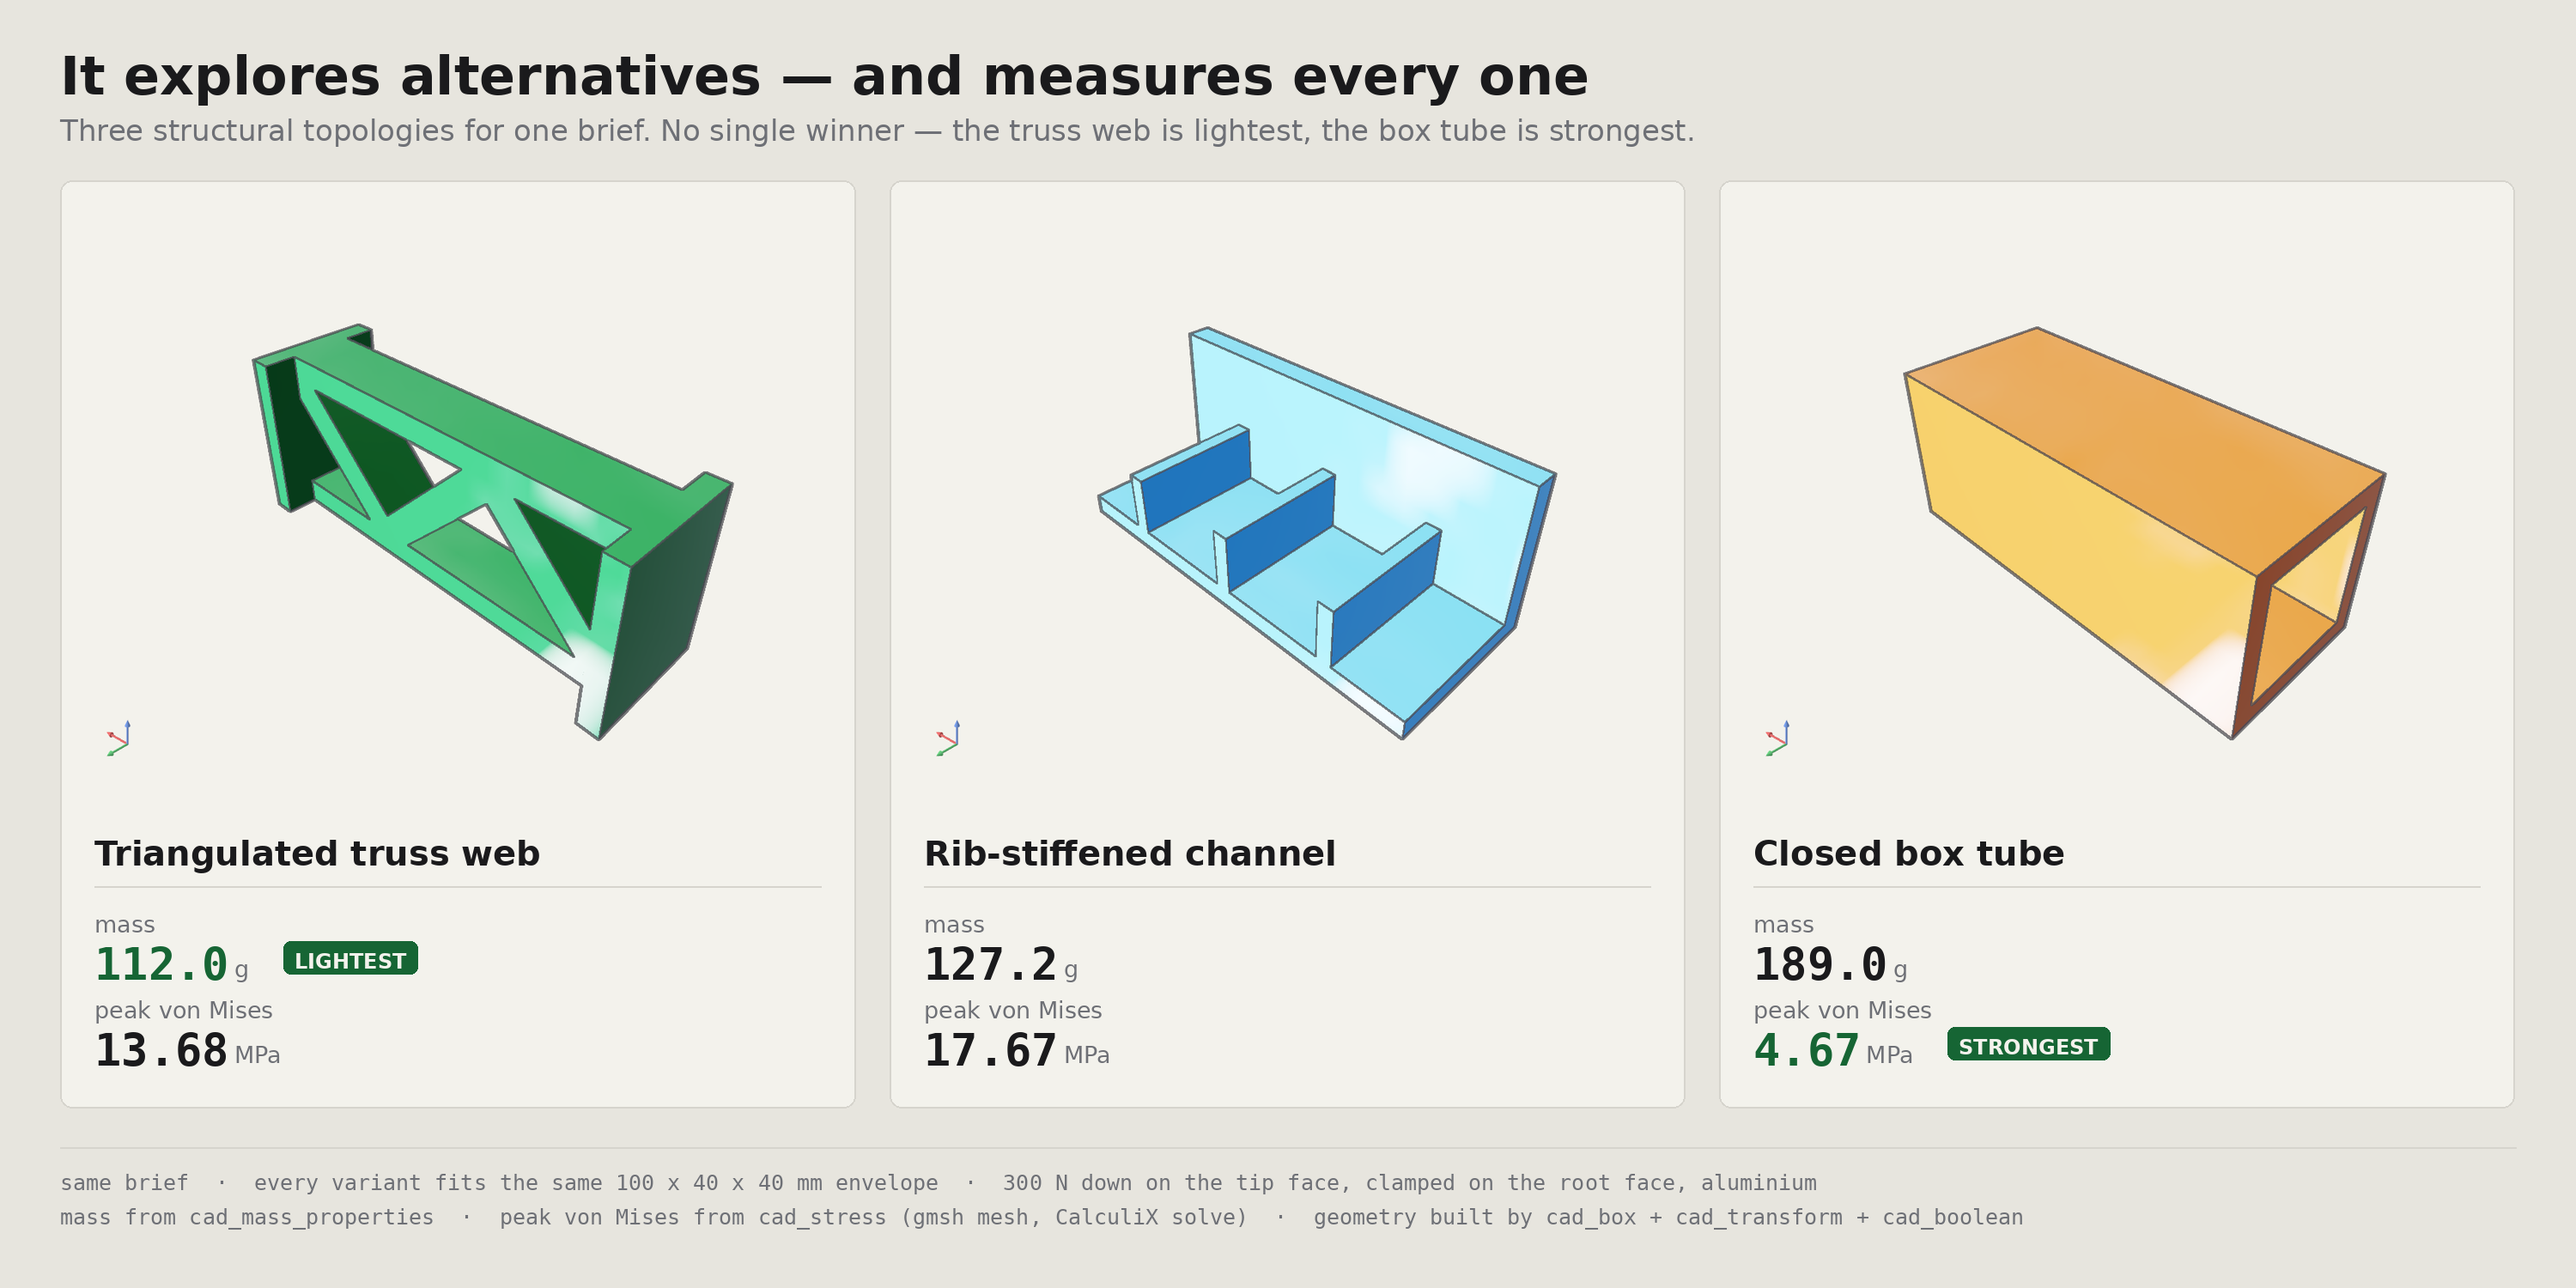
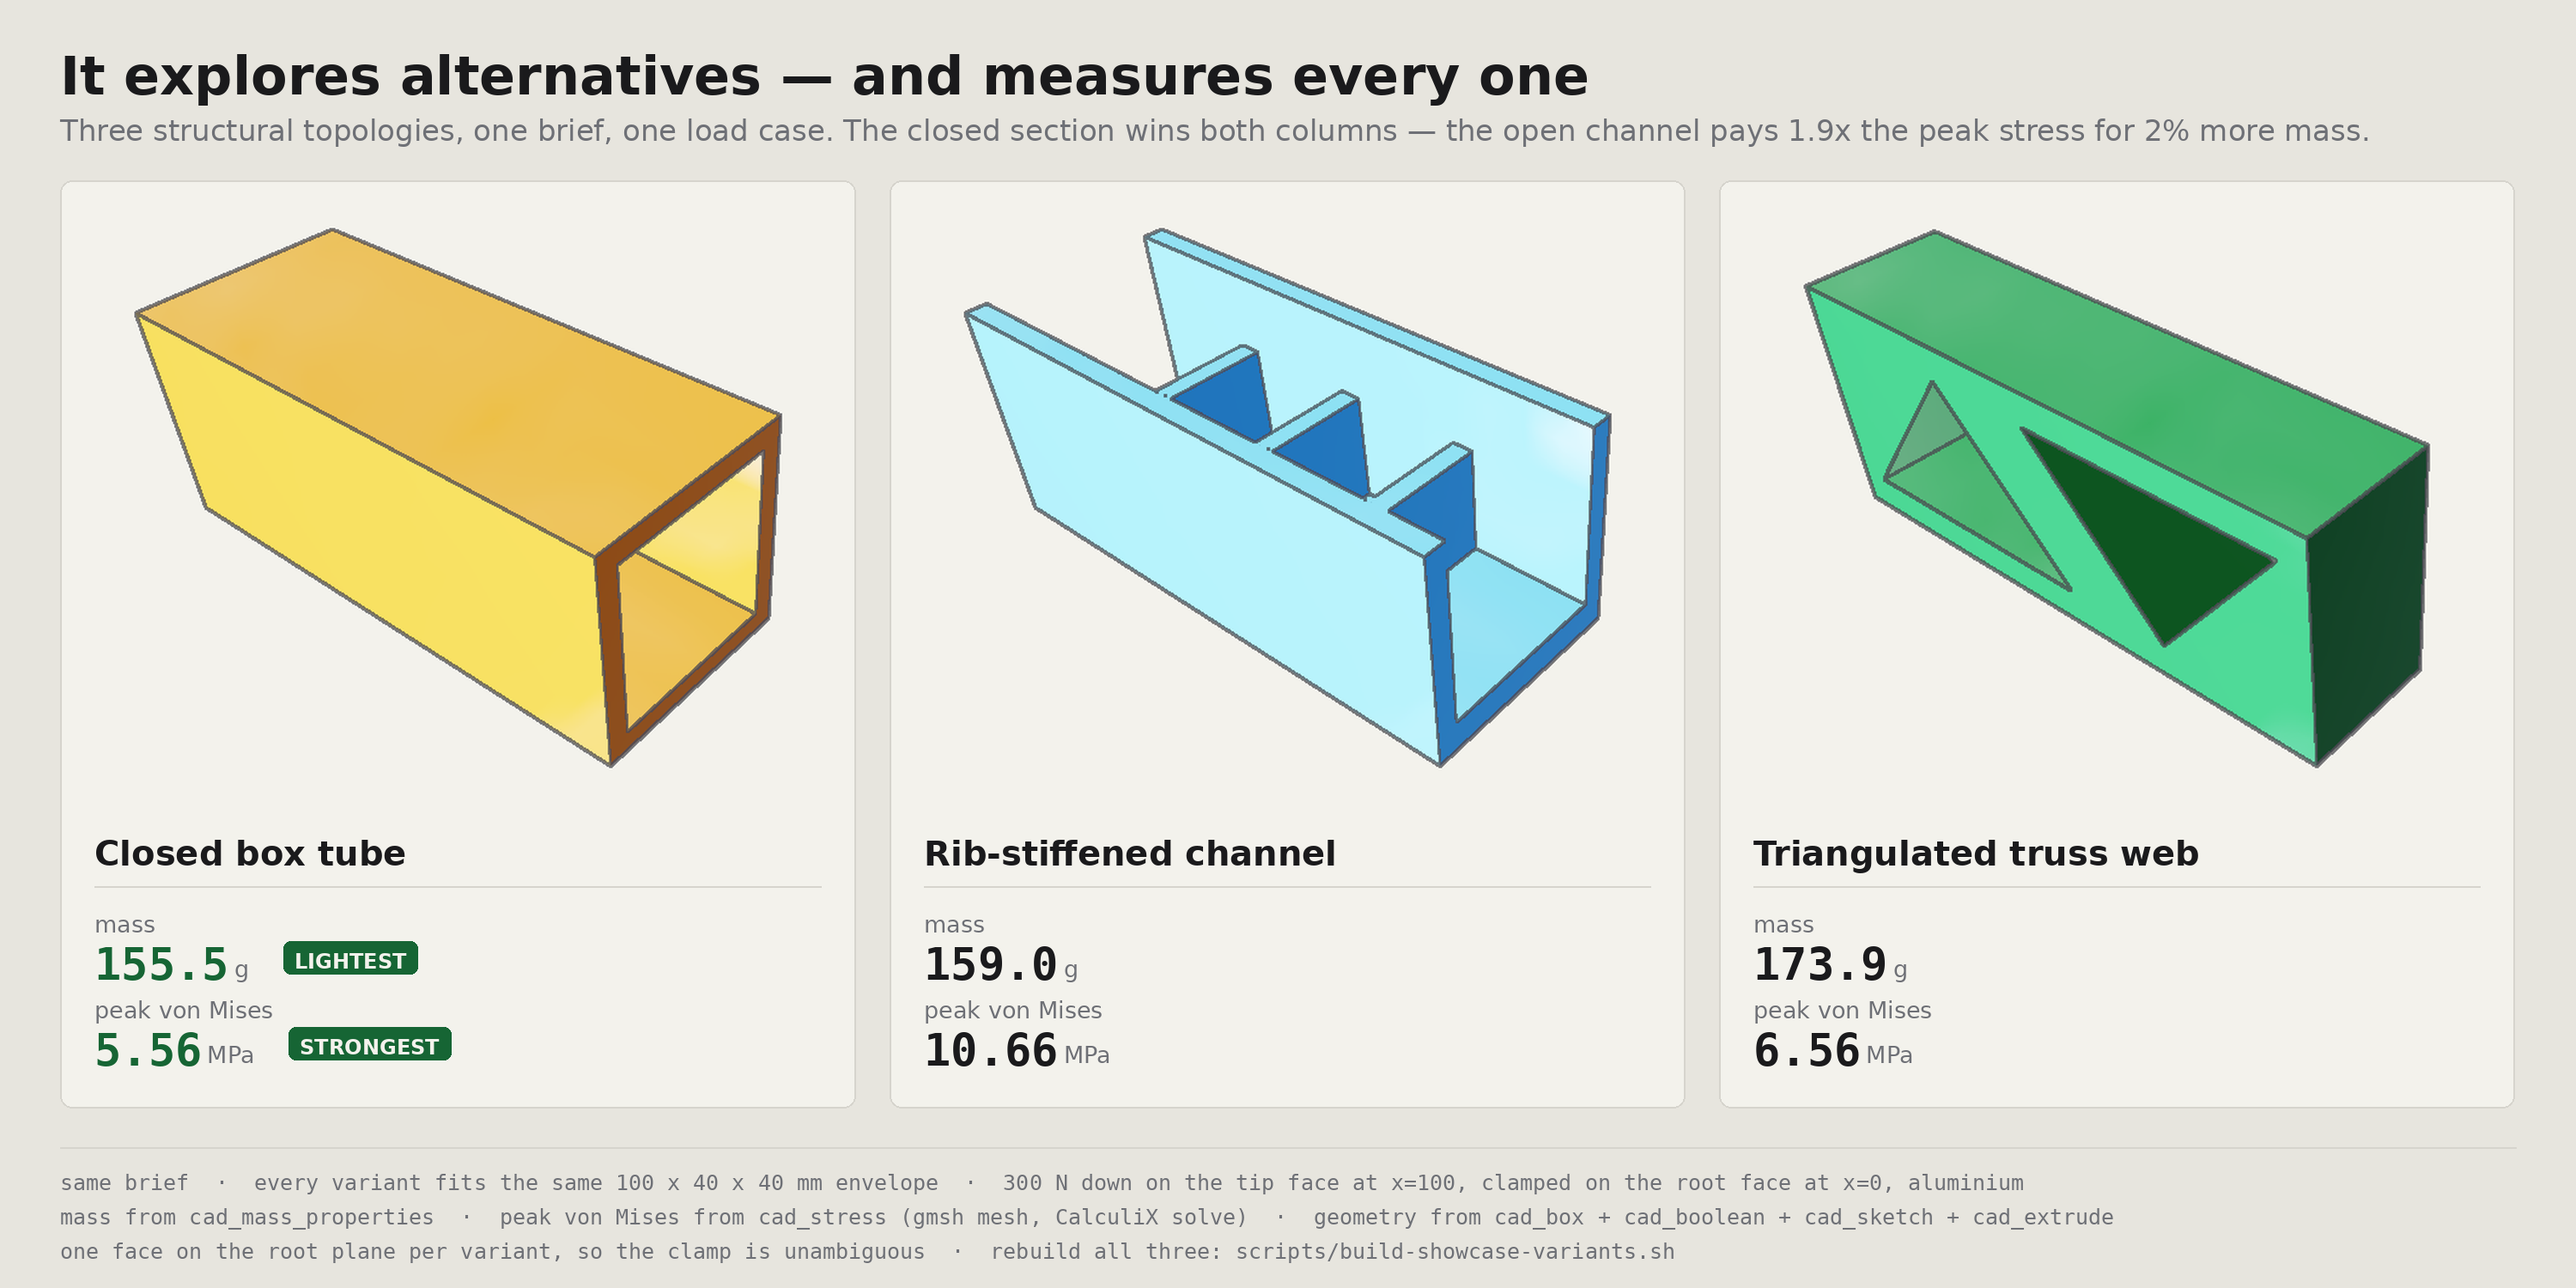
Rebuild the explore-alternatives tile on parts that can be rebuilt
The tile's three sections existed only as renders and a row of numbers. Their
documents were never committed, so 112.0 g and 13.68 MPa could not be checked
by a reader or by us — and a figure on a public page that nobody can reproduce
is a claim, not a measurement.

The parts are now authored in tvashtra's scripts/build-showcase-variants.sh
and the tile reports what re-measuring them returned. That changed the answer:
the closed box tube is both the lightest and the lowest peak stress, so the
tile no longer shows a trade it would have had to manufacture. The footer
carries the clamp and load stations and the fact that each variant has exactly
one face on its root plane, which is what makes a single peak-stress figure
well-posed rather than one arbitrary choice among coplanar faces.

diff --git a/components/Proof.tsx b/components/Proof.tsx
@@ -30,8 +30,12 @@ const proofs: Proof[] = [
   },
   {
     // "ranked" was the old copy, written when the tile put a #1 badge on one
-    // variant. With the solver reading its results correctly there is no single
-    // winner, so the honest claim is that it measures them, not that it ranks.
+    // variant off a solver that was misreading its own results. The claim is
+    // that the tool MEASURES the alternatives, not that it ranks them — the
+    // tile reports whatever the numbers say, and on this set of sections that
+    // is one variant winning both columns. The parts are authored in
+    // tvashtra's scripts/build-showcase-variants.sh so the figures can be
+    // rebuilt; the previous set could not be, which is why they changed.
     img: "/screenshots/showcase/explore-designs.png",
     fit: "contain",
     title: "It explores alternatives",
